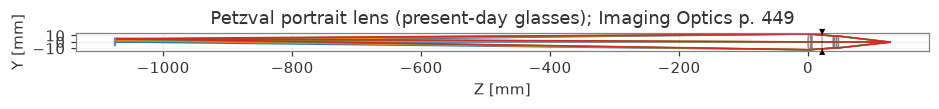
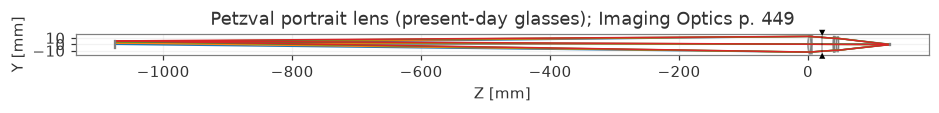
Regenerate cross-sections at per-surface clear apertures (no self-intersecting elements)

diff --git a/site/manifest.js b/site/manifest.js
@@ -6,7 +6,8 @@ window.LENS_MANIFEST = {
   "MIT"
  ],
  "caveats": [
-  "Spot and MTF are traced through the full, unvignetted pupil: the source's clear semi-diameters are not applied as stops, so off-axis spots of fast photographic lenses read larger than the real lens delivers."
+  "Spot and MTF are traced through the full, unvignetted pupil: the source's clear semi-diameters are not applied as stops, so off-axis spots of fast photographic lenses read larger than the real lens delivers.",
+  "The cross-section draws each lens face at the source's clear semi-diameter (else 1.0 to 1.1x the traced beam), so drawn rays that fall outside a clear aperture stop there."
  ],
  "count": 32,
  "families": {
